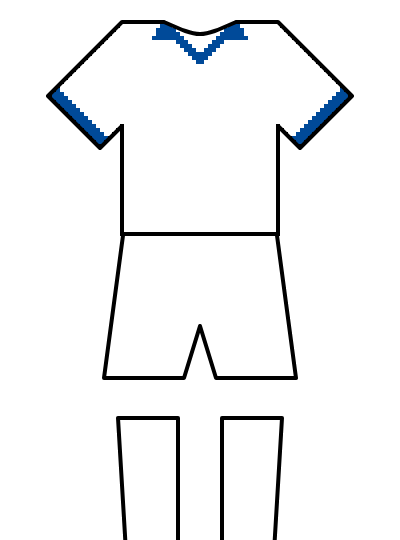
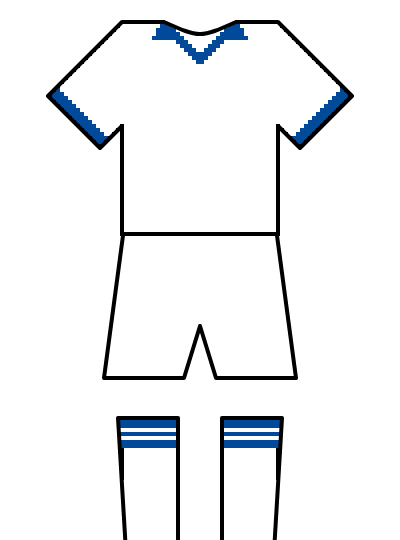
Redraw kits with the latest shorts and socks pictures
Claude-Session: https://claude.ai/code/session_019gbuJGYaZ4pQBD5fAWM6oT

Changed region(s): [[0.54, 0.7704, 0.72, 0.8593], [0.3, 0.7704, 0.45, 0.8593]]

diff --git a/public/data/kits.js b/public/data/kits.js
@@ -129,7 +129,7 @@ window.HALFTIME_KITS = [
     matches: ["1950-world-cup-final"],
     coloursSource: "Wikipedia, \"Uruguay v Brazil (1950 FIFA World Cup)\" (revision 1370476799), CC BY-SA 4.0",
     coloursUrl: "https://en.wikipedia.org/w/index.php?title=Uruguay_v_Brazil_(1950_FIFA_World_Cup)&oldid=1370476799",
-    illustration: { file: "brazil-1950.png", credit: "Drawn after the kit shown in Wikipedia’s \"Uruguay v Brazil (1950 FIFA World Cup)\" article. Pattern pictures from Wikimedia Commons: Kit left arm borderonwhite.png (CC BY-SA 3.0); Kit body bra1949h.png (CC BY-SA 4.0, N); Kit right arm borderonwhite.png (CC BY-SA 3.0). Outline: Wikimedia Commons kit template drawings." }
+    illustration: { file: "brazil-1950.png", credit: "Drawn after the kit shown in Wikipedia’s \"Uruguay v Brazil (1950 FIFA World Cup)\" article. Pattern pictures from Wikimedia Commons: Kit left arm borderonwhite.png (CC BY-SA 3.0); Kit body bra1949h.png (CC BY-SA 4.0, N); Kit right arm borderonwhite.png (CC BY-SA 3.0); Kit socks brasil1942.png (CC BY-SA 3.0, antonio). Outline: Wikimedia Commons kit template drawings." }
   },
   {
     id: "uruguay-1950",
@@ -219,7 +219,7 @@ window.HALFTIME_KITS = [
     matches: ["1962-world-cup-final"],
     coloursSource: "Wikipedia, \"1962 FIFA World Cup final\" (revision 1370476934), CC BY-SA 4.0",
     coloursUrl: "https://en.wikipedia.org/w/index.php?title=1962_FIFA_World_Cup_final&oldid=1370476934",
-    illustration: { file: "brazil-1962.png", credit: "Drawn after the kit shown in Wikipedia’s \"1962 FIFA World Cup final\" article. Pattern pictures from Wikimedia Commons: Kit left arm greenborder.png (CC BY-SA 3.0, No machine-readable author provided.); Kit body collargreen.png (Public domain, Dre.comandante); Kit right arm greenborder.png (CC BY-SA 3.0, No machine-readable author provided.); Kit shorts whitesides.png (CC BY-SA 3.0). Outline: Wikimedia Commons kit template drawings." }
+    illustration: { file: "brazil-1962.png", credit: "Drawn after the kit shown in Wikipedia’s \"1962 FIFA World Cup final\" article. Pattern pictures from Wikimedia Commons: Kit left arm greenborder.png (CC BY-SA 3.0, No machine-readable author provided.); Kit body collargreen.png (Public domain, Dre.comandante); Kit right arm greenborder.png (CC BY-SA 3.0, No machine-readable author provided.); Kit shorts whitesides.png (CC BY-SA 3.0); Kit socks brasil1962h.png (CC BY-SA 4.0, Fma12). Outline: Wikimedia Commons kit template drawings." }
   },
   {
     id: "czechoslovakia-1962",
@@ -429,7 +429,7 @@ window.HALFTIME_KITS = [
     matches: ["1990-world-cup-final"],
     coloursSource: "Wikipedia, \"1990 FIFA World Cup final\" (revision 1376676631), CC BY-SA 4.0",
     coloursUrl: "https://en.wikipedia.org/w/index.php?title=1990_FIFA_World_Cup_final&oldid=1376676631",
-    illustration: { file: "argentina-1990.png", credit: "Drawn after the kit shown in Wikipedia’s \"1990 FIFA World Cup final\" article. Pattern pictures from Wikimedia Commons: Kit left arm argentina1990a.png (CC BY-SA 3.0, Zotteteen1); Kit body argentina1990a.png (CC BY-SA 3.0, Zotteteen1); Kit right arm argentina1990a.png (CC BY-SA 3.0, Zotteteen1); Kit socks color 3 stripes white.png (Public domain, Dragases). Outline: Wikimedia Commons kit template drawings." }
+    illustration: { file: "argentina-1990.png", credit: "Drawn after the kit shown in Wikipedia’s \"1990 FIFA World Cup final\" article. Pattern pictures from Wikimedia Commons: Kit left arm argentina1990a.png (CC BY-SA 3.0, Zotteteen1); Kit body argentina1990a.png (CC BY-SA 3.0, Zotteteen1); Kit right arm argentina1990a.png (CC BY-SA 3.0, Zotteteen1); Kit shorts argentina1990a.png (CC BY-SA 3.0, Zotteteen1); Kit socks color 3 stripes white.png (Public domain, Dragases). Outline: Wikimedia Commons kit template drawings." }
   },
   {
     id: "west-germany-1990",
@@ -519,7 +519,7 @@ window.HALFTIME_KITS = [
     matches: ["2002-world-cup-final"],
     coloursSource: "Wikipedia, \"2002 FIFA World Cup final\" (revision 1375281798), CC BY-SA 4.0",
     coloursUrl: "https://en.wikipedia.org/w/index.php?title=2002_FIFA_World_Cup_final&oldid=1375281798",
-    illustration: { file: "brazil-2002.png", credit: "Drawn after the kit shown in Wikipedia’s \"2002 FIFA World Cup final\" article. Pattern pictures from Wikimedia Commons: Kit left arm bra02h.png (CC0, Irypi); Kit body bra02h.png (Public domain, Bruno-ban); Kit right arm bra02h.png (CC0, Irypi); Kit shorts bra02h.png (CC BY-SA 4.0, NeoRibeiro). Outline: Wikimedia Commons kit template drawings." }
+    illustration: { file: "brazil-2002.png", credit: "Drawn after the kit shown in Wikipedia’s \"2002 FIFA World Cup final\" article. Pattern pictures from Wikimedia Commons: Kit left arm bra02h.png (CC0, Irypi); Kit body bra02h.png (Public domain, Bruno-ban); Kit right arm bra02h.png (CC0, Irypi); Kit shorts bra02h.png (CC BY-SA 4.0, NeoRibeiro); Kit socks bra02al.png (CC0, Irypixel). Outline: Wikimedia Commons kit template drawings." }
   },
   {
     id: "germany-2002",
